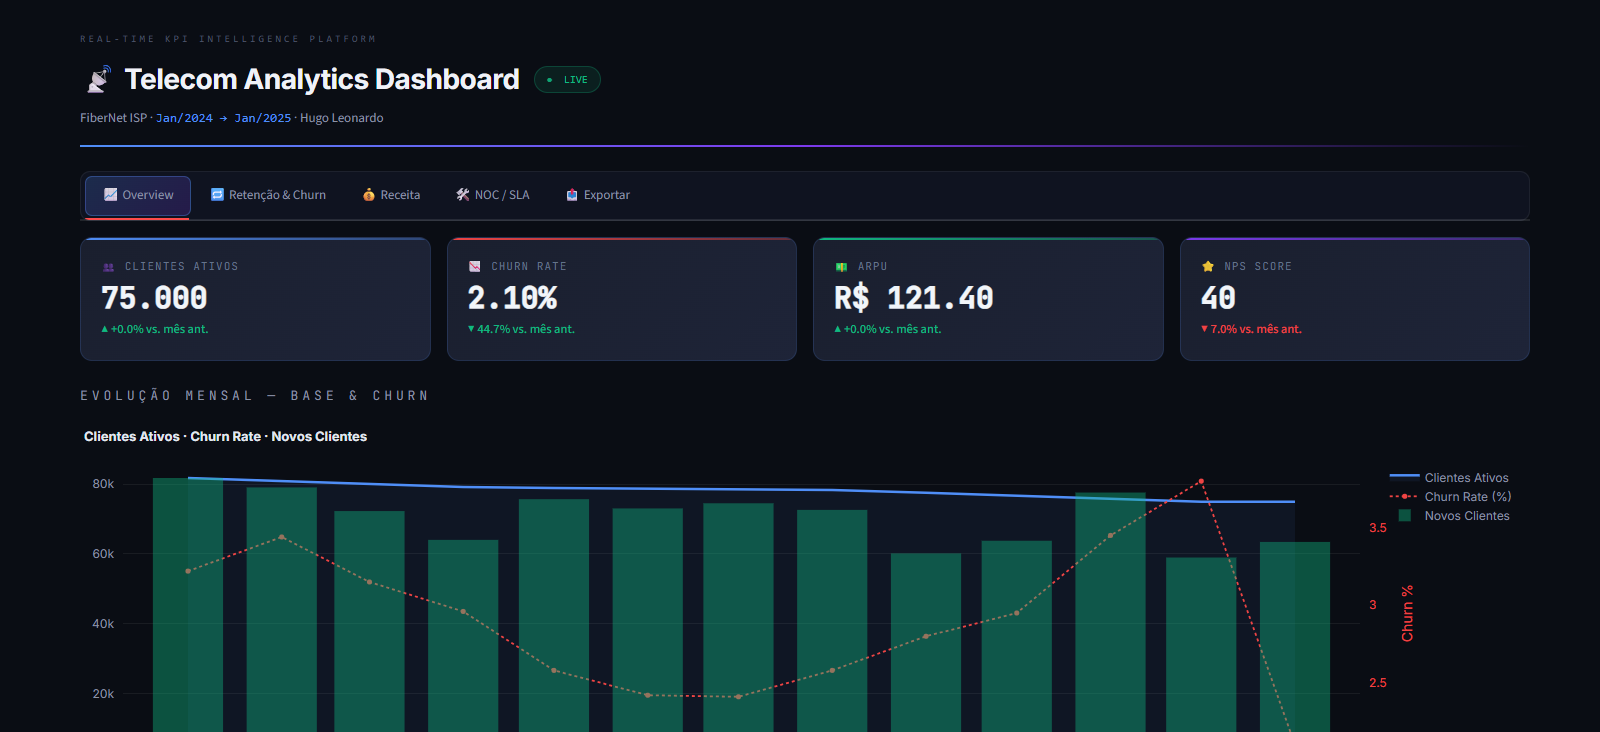
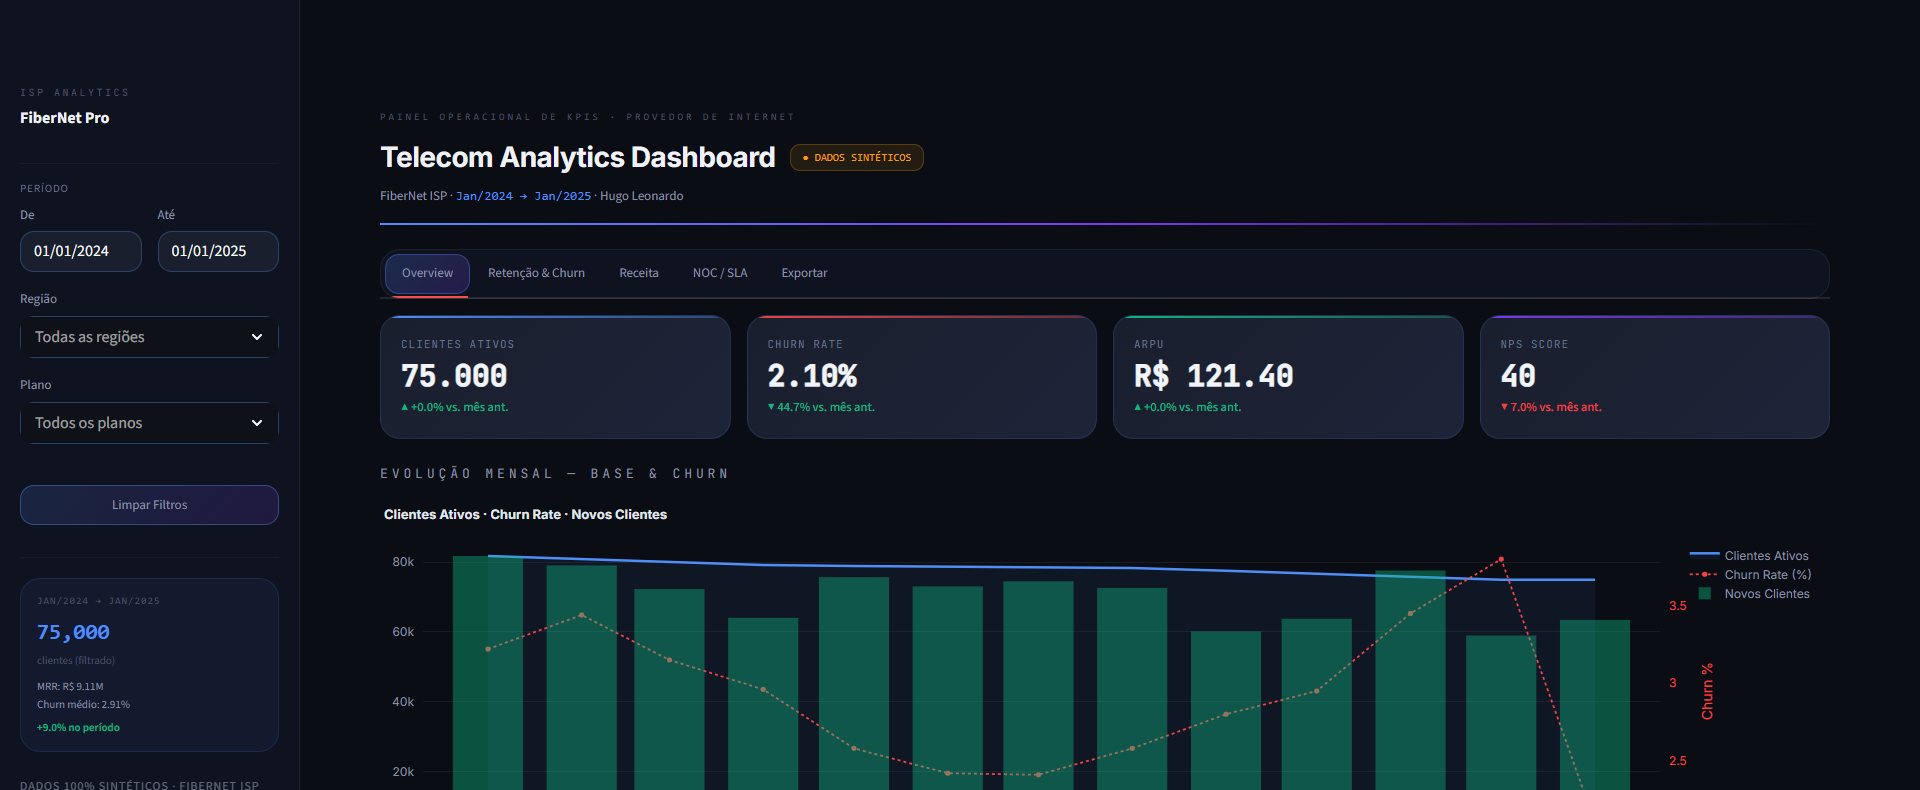
fix: o KPI principal estava preso num max() e o grafico tinha eixo oculto
Dois defeitos que apareciam na primeira tela do projeto.

1. A base ativa era uma constante disfarcada

    clients = max(clients - churned + new_c, 75_000)

   Com churn de 2,4% a 3,8% ao mes e captacao de 1,8% a 2,5%, a base so caia --
   e o piso do max() prendia o resultado. O painel abria com "75.000 clientes,
   +0,0% vs. mes anterior" o ano inteiro, e o ARPU tambem em +0,0%. O numero nao
   era um resultado, era o limite da conta.

   Captacao passou para 3,0%-4,2%, o piso saiu, e a base agora anda: 83.099 ->
   88.501 (+6,5% no ano), com queda em dezembro, que e o pico de churn.

   Junto: churn_seasonal terminava em 2.1 depois de 3.8, um degrau de -45% sem
   logica nenhuma que virava a unica variacao visivel do painel ("churn ▼ 44,7%
   vs. mes anterior"). Passou a 3,3, o patamar de janeiro do ano anterior.

2. Eixo sem rotulo no grafico de abertura

   "Novos Clientes" ia em barras num yaxis3 com showticklabels=False. A serie e
   da ordem de 3 mil/mes e a base, de 88 mil: no eixo proprio e invisivel, as
   barras subiam ate o topo e ficavam da altura da linha da base. Quem lesse
   comparando as alturas concluiria que a operadora troca a base inteira todo
   mes.

   O grafico virou dois. "Base ativa e churn" fica com duas series e dois eixos,
   os dois rotulados. Entradas e cancelamentos ganharam grafico proprio, onde
   dividem eixo legitimamente -- mesma unidade, mesma ordem de grandeza -- com
   o saldo por cima.

diff --git a/assets/style.css b/assets/style.css
@@ -1,5 +1,14 @@
 @import url('https://fonts.googleapis.com/css2?family=Inter:wght@300;400;500;600;700&family=JetBrains+Mono:wght@400;500&display=swap');
 
+/* Escala de arredondamento — espelha RADIUS em src/constants.py.
+   Um degrau por nivel de superficie: chip < controle < painel. Nenhum
+   border-radius fora destas tres variaveis. */
+:root {
+    --r-chip:  10px;   /* marcador, tag, pilula */
+    --r-ctrl:  14px;   /* campo, botao, aba, item de menu */
+    --r-panel: 20px;   /* cartao e painel */
+}
+
 html, body, [class*="css"], .stApp { background-color: #0a0d14 !important; font-family: 'Inter','Segoe UI',sans-serif !important; }
 .main .block-container { padding-top: 1.5rem !important; max-width: 1200px !important; }
 #MainMenu { visibility: hidden; }
@@ -22,19 +31,19 @@ section[data-testid="stSidebar"] .stMarkdown p {
 .stDateInput > div > div {
     background-color:#1a1f2e !important;
     border:1px solid rgba(79,142,247,0.3) !important;
-    border-radius:8px !important;
+    border-radius:var(--r-ctrl) !important;
     color:#e2e8f0 !important;
 }
 
 .stMultiSelect > div > div {
     background-color:#1a1f2e !important;
     border:1px solid rgba(79,142,247,0.3) !important;
-    border-radius:8px !important;
+    border-radius:var(--r-ctrl) !important;
 }
 .stMultiSelect span[data-baseweb="tag"] {
     background-color:rgba(79,142,247,0.2) !important;
     border:1px solid rgba(79,142,247,0.4) !important;
-    border-radius:6px !important;
+    border-radius:var(--r-chip) !important;
     color:#4f8ef7 !important;
     font-size:0.75rem !important;
 }
@@ -42,7 +51,7 @@ section[data-testid="stSidebar"] .stMarkdown p {
 div[data-testid="metric-container"] {
     background:linear-gradient(135deg,#1a1f2e 0%,#1e2438 100%);
     border:1px solid rgba(79,142,247,0.15);
-    border-radius:12px; padding:1rem 1.25rem;
+    border-radius:var(--r-panel); padding:1rem 1.25rem;
     box-shadow:0 4px 24px rgba(0,0,0,0.3),inset 0 1px 0 rgba(255,255,255,0.05);
     position:relative; overflow:hidden;
 }
@@ -62,12 +71,12 @@ div[data-testid="metric-container"] [data-testid="stMetricDelta"] {
 }
 
 .stTabs [data-baseweb="tab-list"] {
-    background:#0f1320 !important; border-radius:10px !important;
+    background:#0f1320 !important; border-radius:var(--r-panel) !important;
     padding:4px !important; gap:2px !important;
     border:1px solid rgba(255,255,255,0.06) !important;
 }
 .stTabs [data-baseweb="tab"] {
-    background:rgba(0,0,0,0) !important; border-radius:7px !important;
+    background:rgba(0,0,0,0) !important; border-radius:var(--r-ctrl) !important;
     color:#64748b !important; font-weight:500 !important;
     font-size:0.85rem !important; padding:0.5rem 1rem !important;
     transition:all 0.2s ease !important;
@@ -79,7 +88,7 @@ div[data-testid="metric-container"] [data-testid="stMetricDelta"] {
 
 .stDownloadButton button, .stButton button {
     background:linear-gradient(135deg,rgba(79,142,247,0.15),rgba(124,58,237,0.15)) !important;
-    border:1px solid rgba(79,142,247,0.4) !important; border-radius:8px !important;
+    border:1px solid rgba(79,142,247,0.4) !important; border-radius:var(--r-ctrl) !important;
     color:#93bbfd !important; font-weight:500 !important; transition:all 0.2s ease !important;
 }
 .stDownloadButton button:hover, .stButton button:hover {
@@ -89,20 +98,18 @@ div[data-testid="metric-container"] [data-testid="stMetricDelta"] {
     transform:translateY(-1px) !important;
 }
 
-.stDataFrame { border:1px solid rgba(79,142,247,0.15) !important; border-radius:10px !important; overflow:hidden !important; }
+.stDataFrame { border:1px solid rgba(79,142,247,0.15) !important; border-radius:var(--r-panel) !important; overflow:hidden !important; }
 
 .section-label {
     font-family:'JetBrains Mono',monospace; font-size:10px; color:#4f8ef7;
     letter-spacing:0.3em; text-transform:uppercase; margin-bottom:12px; margin-top:4px;
 }
 .resumo-box {
-    background:#1a1f2e; border:1px solid rgba(79,142,247,0.15); border-radius:8px;
+    background:#1a1f2e; border:1px solid rgba(79,142,247,0.15); border-radius:var(--r-panel);
     padding:1rem 1.25rem; overflow-y:auto; max-height:420px;
     font-family:'JetBrains Mono',monospace; font-size:11.5px; color:#e2e8f0;
     white-space:pre; line-height:1.65;
 }
 ::-webkit-scrollbar { width:5px; height:5px; }
 ::-webkit-scrollbar-track { background:#0a0d14; }
-::-webkit-scrollbar-thumb { background:rgba(79,142,247,0.28); border-radius:3px; }
-@keyframes livepulse { 0%,100%{opacity:1;} 50%{opacity:0.3;} }
-.live-dot { display:inline-block; color:#10b981; animation:livepulse 2s infinite; }
+::-webkit-scrollbar-thumb { background:rgba(79,142,247,0.28); border-radius:var(--r-chip); }

diff --git a/app.py b/app.py
@@ -9,7 +9,7 @@ from src.constants import (
 )
 from src.data_loader import build_monthly, build_plans, build_regions, build_cohort, build_support
 from src.charts import (
-    make_overview_chart, make_nps_chart, make_arpu_chart,
+    make_overview_chart, make_movimento_chart, make_nps_chart, make_arpu_chart,
     make_cohort_chart, make_plan_churn_chart, make_funnel_chart,
     make_mrr_chart, make_revenue_pie, make_region_mrr_chart, make_region_arpu_chart,
     make_ticket_pie, make_sla_bar_chart, make_sla_trend_chart,
@@ -44,7 +44,7 @@ def main():
         "<div style='padding:12px 0 16px'>"
         "<div style='font-family:JetBrains Mono,monospace;font-size:10px;color:#4b5468;"
         "letter-spacing:.25em;text-transform:uppercase;margin-bottom:4px'>ISP Analytics</div>"
-        "<div style='font-size:16px;font-weight:700;color:#f0f2f8'>📡 FiberNet Pro</div>"
+        "<div style='font-size:16px;font-weight:700;color:#f0f2f8'>FiberNet Pro</div>"
         "</div>", unsafe_allow_html=True,
     )
     st.sidebar.markdown("---")
@@ -70,7 +70,7 @@ def main():
     sel_plans   = st.sidebar.multiselect("Plano",  PLANS,   default=[], placeholder="Todos os planos",  key="_plans")
     st.sidebar.markdown("<br>", unsafe_allow_html=True)
 
-    if st.sidebar.button("🔄 Limpar Filtros", use_container_width=True):
+    if st.sidebar.button("Limpar Filtros", use_container_width=True):
         for k in ["_data_inicio", "_data_fim", "_regions", "_plans"]:
             st.session_state.pop(k, None)
         st.rerun()
@@ -124,7 +124,7 @@ def main():
 
     st.sidebar.markdown(f"""
     <div style='background:rgba(79,142,247,0.06);border:1px solid rgba(79,142,247,0.14);
-         border-radius:10px;padding:14px 16px;margin-top:4px'>
+         border-radius:20px;padding:14px 16px;margin-top:4px'>
       <div style='font-size:10px;color:#4b5468;letter-spacing:.1em;text-transform:uppercase;
            font-family:monospace;margin-bottom:6px'>{periodo_str}</div>
       <div style='font-size:22px;font-weight:700;font-family:monospace;color:#4f8ef7'>
@@ -143,14 +143,14 @@ def main():
     st.markdown(f"""
     <div style='margin-bottom:24px'>
       <div style='font-size:10px;color:#4b5468;letter-spacing:.3em;text-transform:uppercase;
-           font-family:monospace;margin-bottom:10px'>Real-time KPI Intelligence Platform</div>
+           font-family:monospace;margin-bottom:10px'>Painel operacional de KPIs · provedor de internet</div>
       <div style='display:flex;align-items:center;gap:14px;flex-wrap:wrap'>
         <span style='font-size:28px;font-weight:700;color:#f0f2f8;letter-spacing:-0.5px;
-              font-family:Inter,sans-serif'>📡 Telecom Analytics Dashboard</span>
+              font-family:Inter,sans-serif'>Telecom Analytics Dashboard</span>
         <span style='display:inline-flex;align-items:center;gap:5px;
-              background:rgba(16,185,129,0.10);border:1px solid rgba(16,185,129,0.25);
-              border-radius:999px;padding:4px 12px;font-size:11px;font-family:monospace;color:#10b981'>
-          <span class='live-dot'>●</span>&nbsp;LIVE
+              background:rgba(245,158,11,0.10);border:1px solid rgba(245,158,11,0.25);
+              border-radius:10px;padding:4px 12px;font-size:11px;font-family:monospace;color:#f59e0b'>
+          ●&nbsp;DADOS SINTÉTICOS
         </span>
       </div>
       <div style='margin-top:6px;font-size:13px;color:#8b92a5'>
@@ -167,29 +167,31 @@ def main():
         parts = []
         if r_filtered: parts.append(f"Regiões: **{regioes_label}**")
         if p_filtered: parts.append(f"Planos: **{planos_label}**")
-        st.info(f"🔍 Filtrando por: {' · '.join(parts)}")
+        st.info(f"Filtrando por: {' · '.join(parts)}")
 
     tab1, tab2, tab3, tab4, tab5 = st.tabs([
-        "📈 Overview", "🔁 Retenção & Churn", "💰 Receita", "🛠 NOC / SLA", "📤 Exportar",
+        "Overview", "Retenção & Churn", "Receita", "NOC / SLA", "Exportar",
     ])
 
     # ══ TAB 1 — OVERVIEW ══════════════════════════════════════════════════════
     with tab1:
         c1, c2, c3, c4 = st.columns(4)
         with c1: kpi_card("Clientes Ativos", f"{int(cur['active_clients']):,}".replace(",", "."),
-                           d_clients, "vs. mês ant.", "👥", COLORS["blue"])
+                           d_clients, "vs. mês ant.", COLORS["blue"])
         with c2: kpi_card("Churn Rate", f"{cur['churn_rate']:.2f}%",
-                           d_churn, "vs. mês ant.", "📉", COLORS["red"], invert=True)
+                           d_churn, "vs. mês ant.", COLORS["red"], invert=True)
         with c3: kpi_card("ARPU", f"R$ {cur['arpu']:.2f}",
-                           d_arpu, "vs. mês ant.", "💵", COLORS["green"])
+                           d_arpu, "vs. mês ant.", COLORS["green"])
         with c4: kpi_card("NPS Score", str(int(cur["nps"])),
-                           d_nps, "vs. mês ant.", "⭐", COLORS["purple"])
+                           d_nps, "vs. mês ant.", COLORS["purple"])
 
         st.markdown("<br>", unsafe_allow_html=True)
         st.markdown('<p class="section-label">Evolução Mensal — Base & Churn</p>', unsafe_allow_html=True)
 
         if len(filt_m) > 1:
-            st.plotly_chart(make_overview_chart(filt_m), use_container_width=True)
+            col_base, col_mov = st.columns(2)
+            with col_base: st.plotly_chart(make_overview_chart(filt_m), use_container_width=True)
+            with col_mov:  st.plotly_chart(make_movimento_chart(filt_m), use_container_width=True)
             col_nps, col_arpu_ch = st.columns(2)
             with col_nps:   st.plotly_chart(make_nps_chart(filt_m), use_container_width=True)
             with col_arpu_ch: st.plotly_chart(make_arpu_chart(filt_m), use_container_width=True)
@@ -246,15 +248,15 @@ def main():
         with n1:
             acc  = COLORS["green"] if avg_sla_r >= 95 else COLORS["amber"] if avg_sla_r >= 92 else COLORS["red"]
             note = "✓ Acima da meta 95%" if avg_sla_r >= 95 else "⚠ Abaixo da meta 95%"
-            mini_kpi("📶", "SLA Médio (filtrado)", f"{avg_sla_r:.1f}%", note, acc)
+            mini_kpi("SLA Médio (filtrado)", f"{avg_sla_r:.1f}%", note, acc)
         with n2:
-            mini_kpi("⏱", "MTTR Médio", f"{avg_mttr:.0f}h", "Meta ≤ 48h",
+            mini_kpi("MTTR Médio", f"{avg_mttr:.0f}h", "Meta ≤ 48h",
                      COLORS["green"] if avg_mttr <= 36 else COLORS["amber"])
         with n3:
-            mini_kpi("🎫", "Tickets (30d)", f"{total_t:,}", "Total abertos no período", COLORS["blue"])
+            mini_kpi("Tickets (30d)", f"{total_t:,}", "Total abertos no período", COLORS["blue"])
         with n4:
             acc = COLORS["red"] if min_sla < 92 else COLORS["amber"] if min_sla < 95 else COLORS["green"]
-            mini_kpi("📍", "Pior SLA Regional", f"{min_sla:.1f}%", "Região mais crítica", acc)
+            mini_kpi("Pior SLA Regional", f"{min_sla:.1f}%", "Região mais crítica", acc)
 
         st.markdown("<br>", unsafe_allow_html=True)
         cn1, cn2 = st.columns([2, 3])

diff --git a/src/charts.py b/src/charts.py
@@ -22,6 +22,17 @@ def apply_dark_theme(fig: go.Figure, title: str = "", height: int = 320) -> go.F
 
 
 def make_overview_chart(filt_m: pd.DataFrame) -> go.Figure:
+    """Base ativa e churn. Duas séries, dois eixos, os dois rotulados.
+
+    Antes havia uma terceira série aqui — "Novos Clientes", em barras, num
+    `yaxis3` com `showticklabels=False`. Novos clientes é da ordem de 3 mil por
+    mês e a base é da ordem de 88 mil; num eixo próprio e invisível, as barras
+    subiam até o topo do gráfico e ficavam da altura da linha da base. Quem
+    lesse comparando as duas alturas concluiria que a operadora troca a base
+    inteira todo mês. Eixo sem rótulo é o jeito mais barato de mentir num
+    gráfico, e não custa nada evitar: a série ganhou o gráfico ao lado, onde ela
+    tem escala própria e legítima (ver make_movimento_chart).
+    """
     fig = go.Figure()
     fig.add_trace(go.Scatter(
         x=filt_m["month"], y=filt_m["active_clients"],
@@ -35,19 +46,41 @@ def make_overview_chart(filt_m: pd.DataFrame) -> go.Figure:
         line=dict(color=COLORS["red"], width=1.8, dash="dot"),
         marker=dict(size=5), yaxis="y2",
     ))
-    fig.add_trace(go.Bar(
-        x=filt_m["month"], y=filt_m["new_clients"],
-        name="Novos Clientes", marker_color="rgba(16,185,129,0.40)", yaxis="y3",
-    ))
     fig.update_layout(
+        yaxis=dict(title=dict(text="Clientes ativos",
+                              font=dict(color=COLORS["blue"]))),
         yaxis2=dict(overlaying="y", side="right",
                     title=dict(text="Churn %", font=dict(color=COLORS["red"])),
-                    gridcolor="rgba(0,0,0,0)", tickfont=dict(color=COLORS["red"])),
-        yaxis3=dict(overlaying="y", side="right", anchor="free", position=0.98,
-                    gridcolor="rgba(0,0,0,0)", tickfont=dict(color=COLORS["muted"]),
-                    showticklabels=False),
+                    gridcolor="rgba(0,0,0,0)", tickfont=dict(color=COLORS["red"]),
+                    ticksuffix="%"),
     )
-    return apply_dark_theme(fig, "Clientes Ativos · Churn Rate · Novos Clientes", height=380)
+    return apply_dark_theme(fig, "Base ativa e churn", height=380)
+
+
+def make_movimento_chart(filt_m: pd.DataFrame) -> go.Figure:
+    """Entradas × saídas no mesmo eixo — é a conta que explica a linha ao lado.
+
+    As duas séries têm a mesma unidade (clientes/mês) e a mesma ordem de
+    grandeza, então dividem eixo sem distorcer nada. A leitura é a distância
+    entre as barras: onde a vermelha passa a verde, a base encolheu naquele mês.
+    """
+    saldo = filt_m["new_clients"] - filt_m["churned"]
+    fig = go.Figure()
+    fig.add_trace(go.Bar(
+        x=filt_m["month"], y=filt_m["new_clients"],
+        name="Entradas", marker_color="rgba(16,185,129,0.75)",
+    ))
+    fig.add_trace(go.Bar(
+        x=filt_m["month"], y=-filt_m["churned"],
+        name="Cancelamentos", marker_color="rgba(239,68,68,0.75)",
+    ))
+    fig.add_trace(go.Scatter(
+        x=filt_m["month"], y=saldo, name="Saldo", mode="lines+markers",
+        line=dict(color=COLORS["muted"], width=2), marker=dict(size=5),
+    ))
+    fig.update_layout(barmode="relative",
+                      yaxis=dict(title=dict(text="Clientes no mês")))
+    return apply_dark_theme(fig, "Entradas × cancelamentos", height=380)
 
 
 def make_nps_chart(filt_m: pd.DataFrame) -> go.Figure:

diff --git a/src/kpis.py b/src/kpis.py
@@ -1,6 +1,6 @@
 import streamlit as st
 
-from .constants import COLORS
+from .constants import COLORS, RADIUS
 
 
 def dpct(a: float, b: float) -> float:
@@ -8,7 +8,15 @@ def dpct(a: float, b: float) -> float:
 
 
 def kpi_card(title: str, value: str, delta_pct: float, delta_label: str,
-             icon: str = "📊", color: str = "#4f8ef7", invert: bool = False) -> None:
+             color: str = "#4f8ef7", invert: bool = False) -> None:
+    """Cartao de KPI: rotulo, numero grande e variacao.
+
+    `invert=True` para metrica em que cair e bom (churn): a seta continua
+    apontando para onde o numero foi, mas a cor diz se isso e bom.
+
+    Sem icone: o rotulo ja diz o que e, e um emoji por cartao acrescenta cinco
+    cores fora da paleta na faixa mais importante da tela.
+    """
     is_pos  = delta_pct >= 0
     good    = is_pos if not invert else not is_pos
     d_color = "#10b981" if good else "#ef4444"
@@ -16,13 +24,13 @@ def kpi_card(title: str, value: str, delta_pct: float, delta_label: str,
     sign    = "+" if is_pos else ""
     st.markdown(f"""
     <div style="background:linear-gradient(135deg,#1a1f2e 0%,#1e2438 100%);
-                border:1px solid rgba(79,142,247,0.15);border-radius:12px;
+                border:1px solid rgba(79,142,247,0.15);border-radius:{RADIUS["panel"]}px;
                 padding:1.25rem;position:relative;overflow:hidden;min-height:110px;">
       <div style="position:absolute;top:0;left:0;right:0;height:2px;
                   background:linear-gradient(90deg,{color},{color}55);"></div>
       <div style="color:#64748b;font-size:.68rem;text-transform:uppercase;
                   letter-spacing:.1em;margin-bottom:.5rem;
-                  font-family:'JetBrains Mono',monospace;">{icon} {title}</div>
+                  font-family:'JetBrains Mono',monospace;">{title}</div>
       <div style="color:#f1f5f9;font-size:1.85rem;font-weight:700;line-height:1;
                   font-family:'JetBrains Mono',monospace;">{value}</div>
       <div style="color:{d_color};font-size:.78rem;margin-top:.45rem;font-weight:500;">
@@ -31,13 +39,13 @@ def kpi_card(title: str, value: str, delta_pct: float, delta_label: str,
     </div>""", unsafe_allow_html=True)
 
 
-def mini_kpi(icon: str, title: str, value: str, note: str, accent: str = "#4f8ef7") -> None:
+def mini_kpi(title: str, value: str, note: str, accent: str = "#4f8ef7") -> None:
     st.markdown(f"""
     <div style="background:linear-gradient(135deg,#1a1f2e,#1e2438);border:1px solid rgba(79,142,247,0.15);
-                border-radius:12px;padding:1.25rem;position:relative;overflow:hidden;min-height:110px;">
+                border-radius:{RADIUS["panel"]}px;padding:1.25rem;position:relative;overflow:hidden;min-height:110px;">
       <div style="position:absolute;top:0;left:0;right:0;height:2px;background:{accent};"></div>
       <div style="color:#64748b;font-size:.68rem;text-transform:uppercase;letter-spacing:.1em;
-                  margin-bottom:.5rem;font-family:'JetBrains Mono',monospace;">{icon} {title}</div>
+                  margin-bottom:.5rem;font-family:'JetBrains Mono',monospace;">{title}</div>
       <div style="color:#f1f5f9;font-size:1.85rem;font-weight:700;font-family:'JetBrains Mono',monospace;">{value}</div>
       <div style="color:{accent};font-size:.78rem;margin-top:.45rem;">{note}</div>
     </div>""", unsafe_allow_html=True)

diff --git a/src/data_loader.py b/src/data_loader.py
@@ -13,8 +13,13 @@ def build_monthly() -> pd.DataFrame:
     rng = np.random.default_rng(42)
     months = pd.date_range("2024-01-01", "2025-01-01", freq="MS")
 
-    churn_seasonal = np.array([3.2, 3.5, 3.1, 2.9, 2.7, 2.5, 2.4, 2.6, 2.8, 3.0, 3.4, 3.8, 2.1])
-    churn_rates    = np.clip(churn_seasonal + rng.normal(0, 0.06, 13), 2.1, 3.8)
+    # Sazonalidade de churn: pico no verão (rescisão de contrato de temporada e
+    # mudança de endereço no início do ano), vale no meio do ano. O 13º ponto é
+    # jan/2025 e repete o patamar de jan/2024 — antes era 2.1, um degrau de -45%
+    # contra dezembro que não vinha de lógica nenhuma e virava a única variação
+    # visível do painel: o cartão de churn abria com "▼ 44,7% vs. mês anterior".
+    churn_seasonal = np.array([3.2, 3.5, 3.1, 2.9, 2.7, 2.5, 2.4, 2.6, 2.8, 3.0, 3.4, 3.8, 3.3])
+    churn_rates    = np.clip(churn_seasonal + rng.normal(0, 0.06, 13), 2.0, 4.0)
     arpu_base      = np.clip(np.linspace(92.0, 107.0, 13) + rng.normal(0, 1.2, 13), 89, 134)
 
     prom_fracs = np.clip(rng.uniform(0.44, 0.62, 13), 0.30, 0.70)
@@ -24,9 +29,15 @@ def build_monthly() -> pd.DataFrame:
 
     rows, clients = [], 82_500
     for i, m in enumerate(months):
-        new_c   = int(clients * rng.uniform(0.018, 0.025))
+        # A aquisição precisa cobrir o churn para a base andar. Com churn de
+        # 2,4% a 3,8% ao mês e captação de 1,8% a 2,5%, a base só caía — e o
+        # `max(..., 75_000)` que existia aqui prendia o resultado no piso.
+        # O efeito era o pior possível num painel: o KPI de abertura mostrava
+        # 75.000 clientes e "+0,0% vs. mês anterior" o ano inteiro, porque o
+        # número não era um resultado, era o próprio limite da conta.
+        new_c   = int(clients * rng.uniform(0.030, 0.042))
         churned = int(clients * churn_rates[i] / 100)
-        clients = max(clients - churned + new_c, 75_000)
+        clients = clients - churned + new_c
         rows.append({
             "month":          m,
             "month_label":    m.strftime("%b/%y"),

diff --git a/src/constants.py b/src/constants.py
@@ -5,6 +5,20 @@ DATE_MAX = date(2025, 1, 1)
 
 PALETTE = ["#4f8ef7", "#7c3aed", "#10b981", "#f59e0b", "#ef4444"]
 
+# Escala de arredondamento — um degrau por nivel de superficie, e nada fora dela.
+# E a mesma escala usada nos relatorios Power BI do portfolio: paleta e tipografia
+# separam as pecas, o acabamento as une. Antes, esta folha tinha seis raios
+# diferentes (12, 10, 8, 7, 6, 3) escolhidos um a um, e o conjunto lia como
+# telas de produtos distintos coladas.
+#
+#   chip   marcador, tag, pilula
+#   ctrl   controle: campo, botao, aba, item de menu
+#   panel  cartao e painel, a maior superficie da tela
+#
+# O raio acompanha o tamanho da superficie: raio unico em elementos de tamanhos
+# diferentes faz o pequeno parecer redondo demais e o grande, duro.
+RADIUS = {"chip": 10, "ctrl": 14, "panel": 20}
+
 COLORS = {
     "blue":   "#4f8ef7",
     "purple": "#7c3aed",
